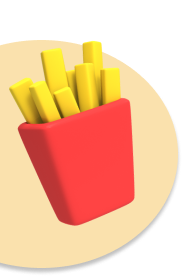
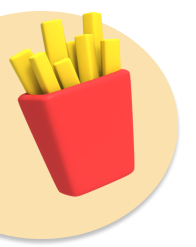
fix url page

diff --git a/hungergames/src/pages/url.tsx b/hungergames/src/pages/url.tsx
@@ -16,16 +16,16 @@ export default function URL() {
                 <div className='text'>
                     <h2>
                         Your Game PIN is generated. <br />
-                        Share with your friends to play together!
+                        Share with your friends!
                     </h2>
                 </div>
 
                 <div className="urlLink">
-                    <h2>{gameId}</h2>
+                    <h2 className='gameID'>{gameId}</h2>
                 </div>
 
                 <div className="userZone">
-                    <Link href={`/Game?gameId=${gameId}&userId=${userId}`}><button className="button">Enter Game</button></Link>
+                    <Link className="button" href={`/Game?gameId=${gameId}&userId=${userId}`}><button className="button">Enter Game</button></Link>
                 </div>
 
                 <div className='footer'>

diff --git a/hungergames/src/pages/url.css b/hungergames/src/pages/url.css
@@ -75,12 +75,12 @@ h3 {
   flex-shrink: 0;
   color: #2e293a;
   font-weight: 800;
-  text-decoration: none;
+  text-decoration:none; 
   margin-bottom: 10px;
   margin-left: auto;
   margin-right: auto;
   justify-content: center;
-  margin-top: 2em;
+  margin-top: 3vh;
 }
 
 .arrow {
@@ -105,7 +105,7 @@ h3 {
 }
 
 h2 {
-  color: #726d80;
+  color: #2E293A;;
   font-family: Inter;
   font-size: 2rem;
   font-style: normal;
@@ -113,7 +113,7 @@ h2 {
   line-height: normal;
   margin-top: 0;
   margin-bottom: 0;
-  padding-top: 2em;
+  
 }
 
 p {
@@ -197,5 +197,20 @@ input[type="range"]::-ms-fill-upper {
     margin-left: auto;
     margin-right: auto;
     justify-content: center;
+    margin-top: 2vh;
 
+}
+
+.text{
+    padding-top: 2em;
+}
+
+.footer{
+    height: fit-content; 
+}
+
+
+.gameID{
+    position: relative;
+    top:1vh;
 }

diff --git a/hungergames/src/pages/ranking.css b/hungergames/src/pages/ranking.css
@@ -1,7 +1,7 @@
 @import url("https://fonts.googleapis.com/css2?family=Inter:wght@400;500;700&display=swap");
 
 .page {
-  background-color: #ffd971;
+  /* background-color: #ffd971; */
   font-family: "Inter", sans-serif;
 }
 
@@ -26,12 +26,13 @@
   font-weight: 700;
   line-height: normal;
   margin-bottom: 20px;
+  
 }
 
 .title {
   float: left;
   margin-top: 1em;
-  margin-left: 1em;
+  margin-left: 1rem;
   width: 100%;
 }
 

diff --git a/hungergames/src/app/page.tsx b/hungergames/src/app/page.tsx
@@ -108,7 +108,7 @@ export default function Home() {
       </div>
       <div className="foodImage">
         <div className='food'>
-          <img className="foodImage1" src="/fries.png" alt="fries" />
+          <img className="foodImage2" src="/fries.png" alt="fries" />
         </div>
         <div className='food'>
           <img className="foodImage2" src="/noodle.png" alt="fries" />

diff --git a/hungergames/src/pages/wait.css b/hungergames/src/pages/wait.css
@@ -10,15 +10,6 @@
   background-color: #f2be55;
   font-family: "Inter", sans-serif;
 }
-.return {
-  padding-top: 3em;
-  margin-left: 2em;
-}
-
-.returnImage {
-  display: block;
-}
-
 .title {
   padding-left: 3em;
   padding-top: 4em;
@@ -27,7 +18,7 @@
   /* margin-top: 2em; */
   color: #2E1F4F;
   font-family: Inter;
-  font-size: 64px;
+  font-size: 4rem;
 }
 
 .urlLink {

diff --git a/hungergames/src/components/RestaurantCard.module.css b/hungergames/src/components/RestaurantCard.module.css
@@ -1,11 +1,13 @@
 /* RestaurantCard.module.css */
 .card {
-  border-radius: 5px;
+  border-radius: 10px;
   max-width: 60vw;
   padding: 10px;
   background: #ffe8b8;
   box-shadow: 0px 4px 4px 0px rgba(0, 0, 0, 0.25);
   margin: 0;
+  margin-bottom: 5vh;
+
   /* Add any other styles you need for the card */
 }
 

diff --git a/hungergames/src/pages/game.css b/hungergames/src/pages/game.css
@@ -4,10 +4,10 @@
   display: flex;
   align-items: center;
   justify-content: center;
-  height: 100vh;
+  min-height: 100vh;
   flex-direction: column;
   font-family: "Inter", sans-serif;
-  background-color: #ffd971;
+  /* background-color: #ffd971; */
 }
 
 .mainPage p {

diff --git a/hungergames/src/components/MobileFrame.module.css b/hungergames/src/components/MobileFrame.module.css
@@ -7,7 +7,7 @@
   height: 100vh; /* 100% of the viewport height */
   background: #f2be55;
   width: 450px; /* Fixed width */
-  border-style: solid;
+  /* border-style: solid; */
   border-color: #c19844;
 }
 

diff --git a/hungergames/src/app/main.css b/hungergames/src/app/main.css
@@ -99,12 +99,14 @@
 
 .foodImage1 {
   float: left;
-  width: 300px;
+  width: 20rem;
+  bottom:0; 
 }
 
 .foodImage2 {
   float: right;
   width: 300px;
+  bottom: 0;
 }
 
 .hand {
